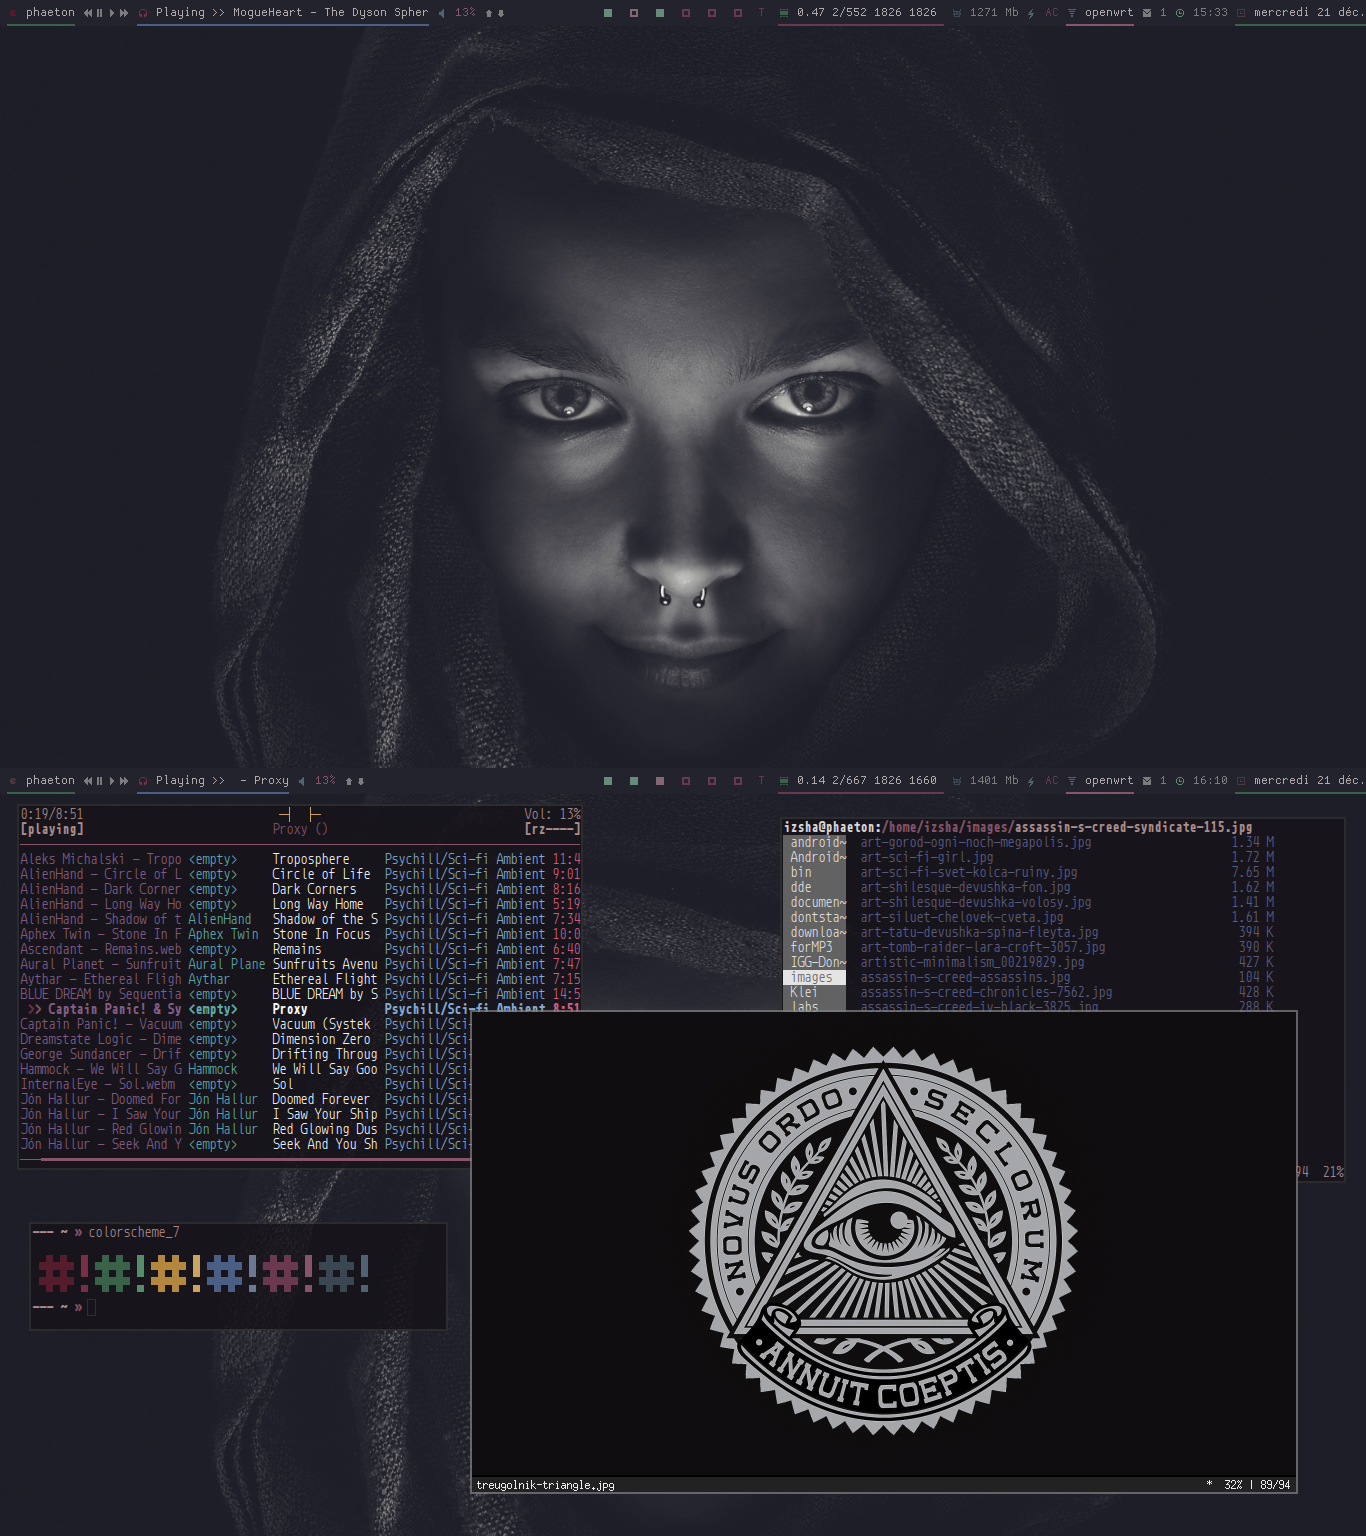
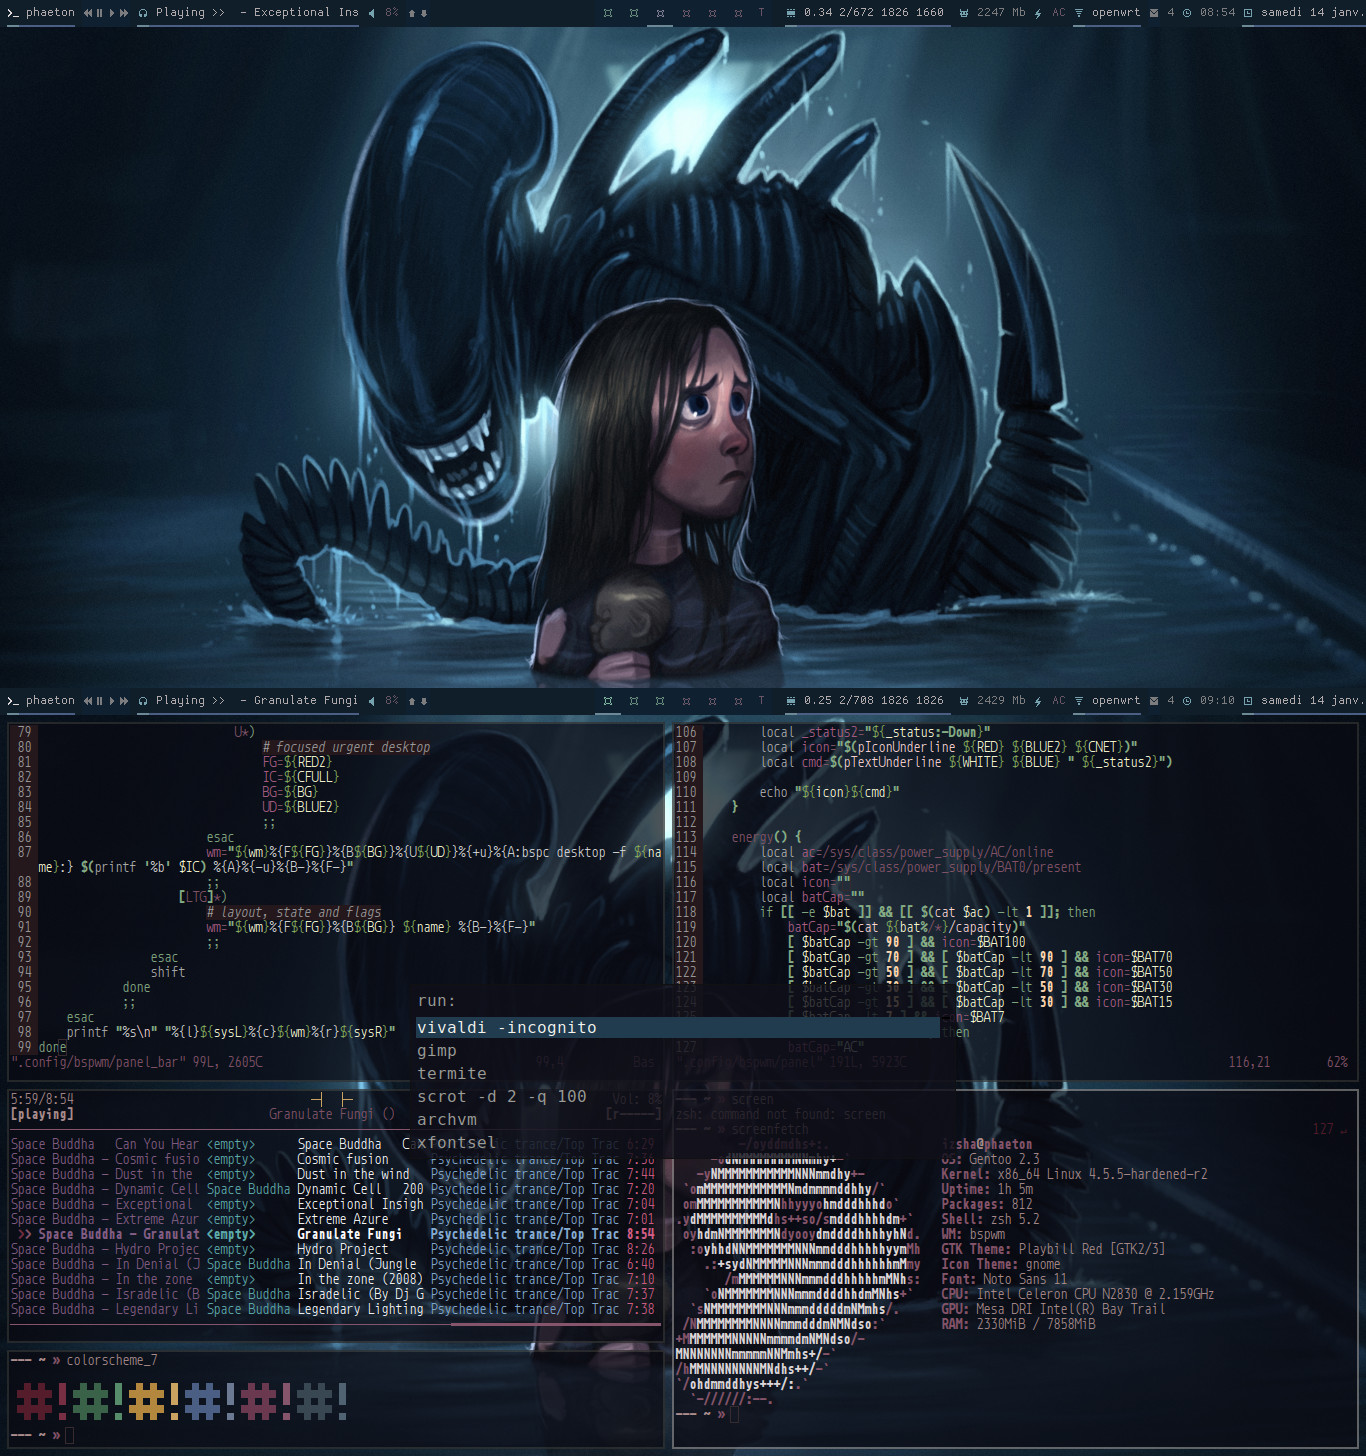
add desktop 01.14.17 alien

diff --git a/README.md b/README.md
@@ -5,18 +5,17 @@
 
 ## Requirements for bspwm...
 
-<p>
-+ termite - virtual terminal <br />
-+ mpd - music program <br />
-+ mpc - control music behind sxhkd <br />
-+ rofi - for run programs <br />
-+ lemonbar - top bar <br />
-+ siji font - print icon into lemonbar <br />
-+ Noto font for GTK app & Monoid for terminal <br/>
-+ hsetroot - for set wallpaper <br />
-+ compton - minimal shadows / transparency of windows <br />
-+ xdo - small utility to perform elementary actions on windows<br />
-</p>
++ termite - virtual terminal
++ mpd - music program
++ mpc - control music behind sxhkd
++ rofi - for run programs
++ lemonbar - top bar
++ siji font - print icon into lemonbar
++ Noto font for GTK app & Monoid for terminal
++ hsetroot - for set wallpaper
++ compton - minimal shadows / transparency of windows
++ xdo - small utility to perform elementary actions on windows
++ wallpaper - [alien](http://i.imgur.com/eBgIvk0.jpg)
 
 ###If you have trouble for install it: follow this [tuto](https://github.com/szorfein/dotfiles/wiki/Install-BSPWM)
 
